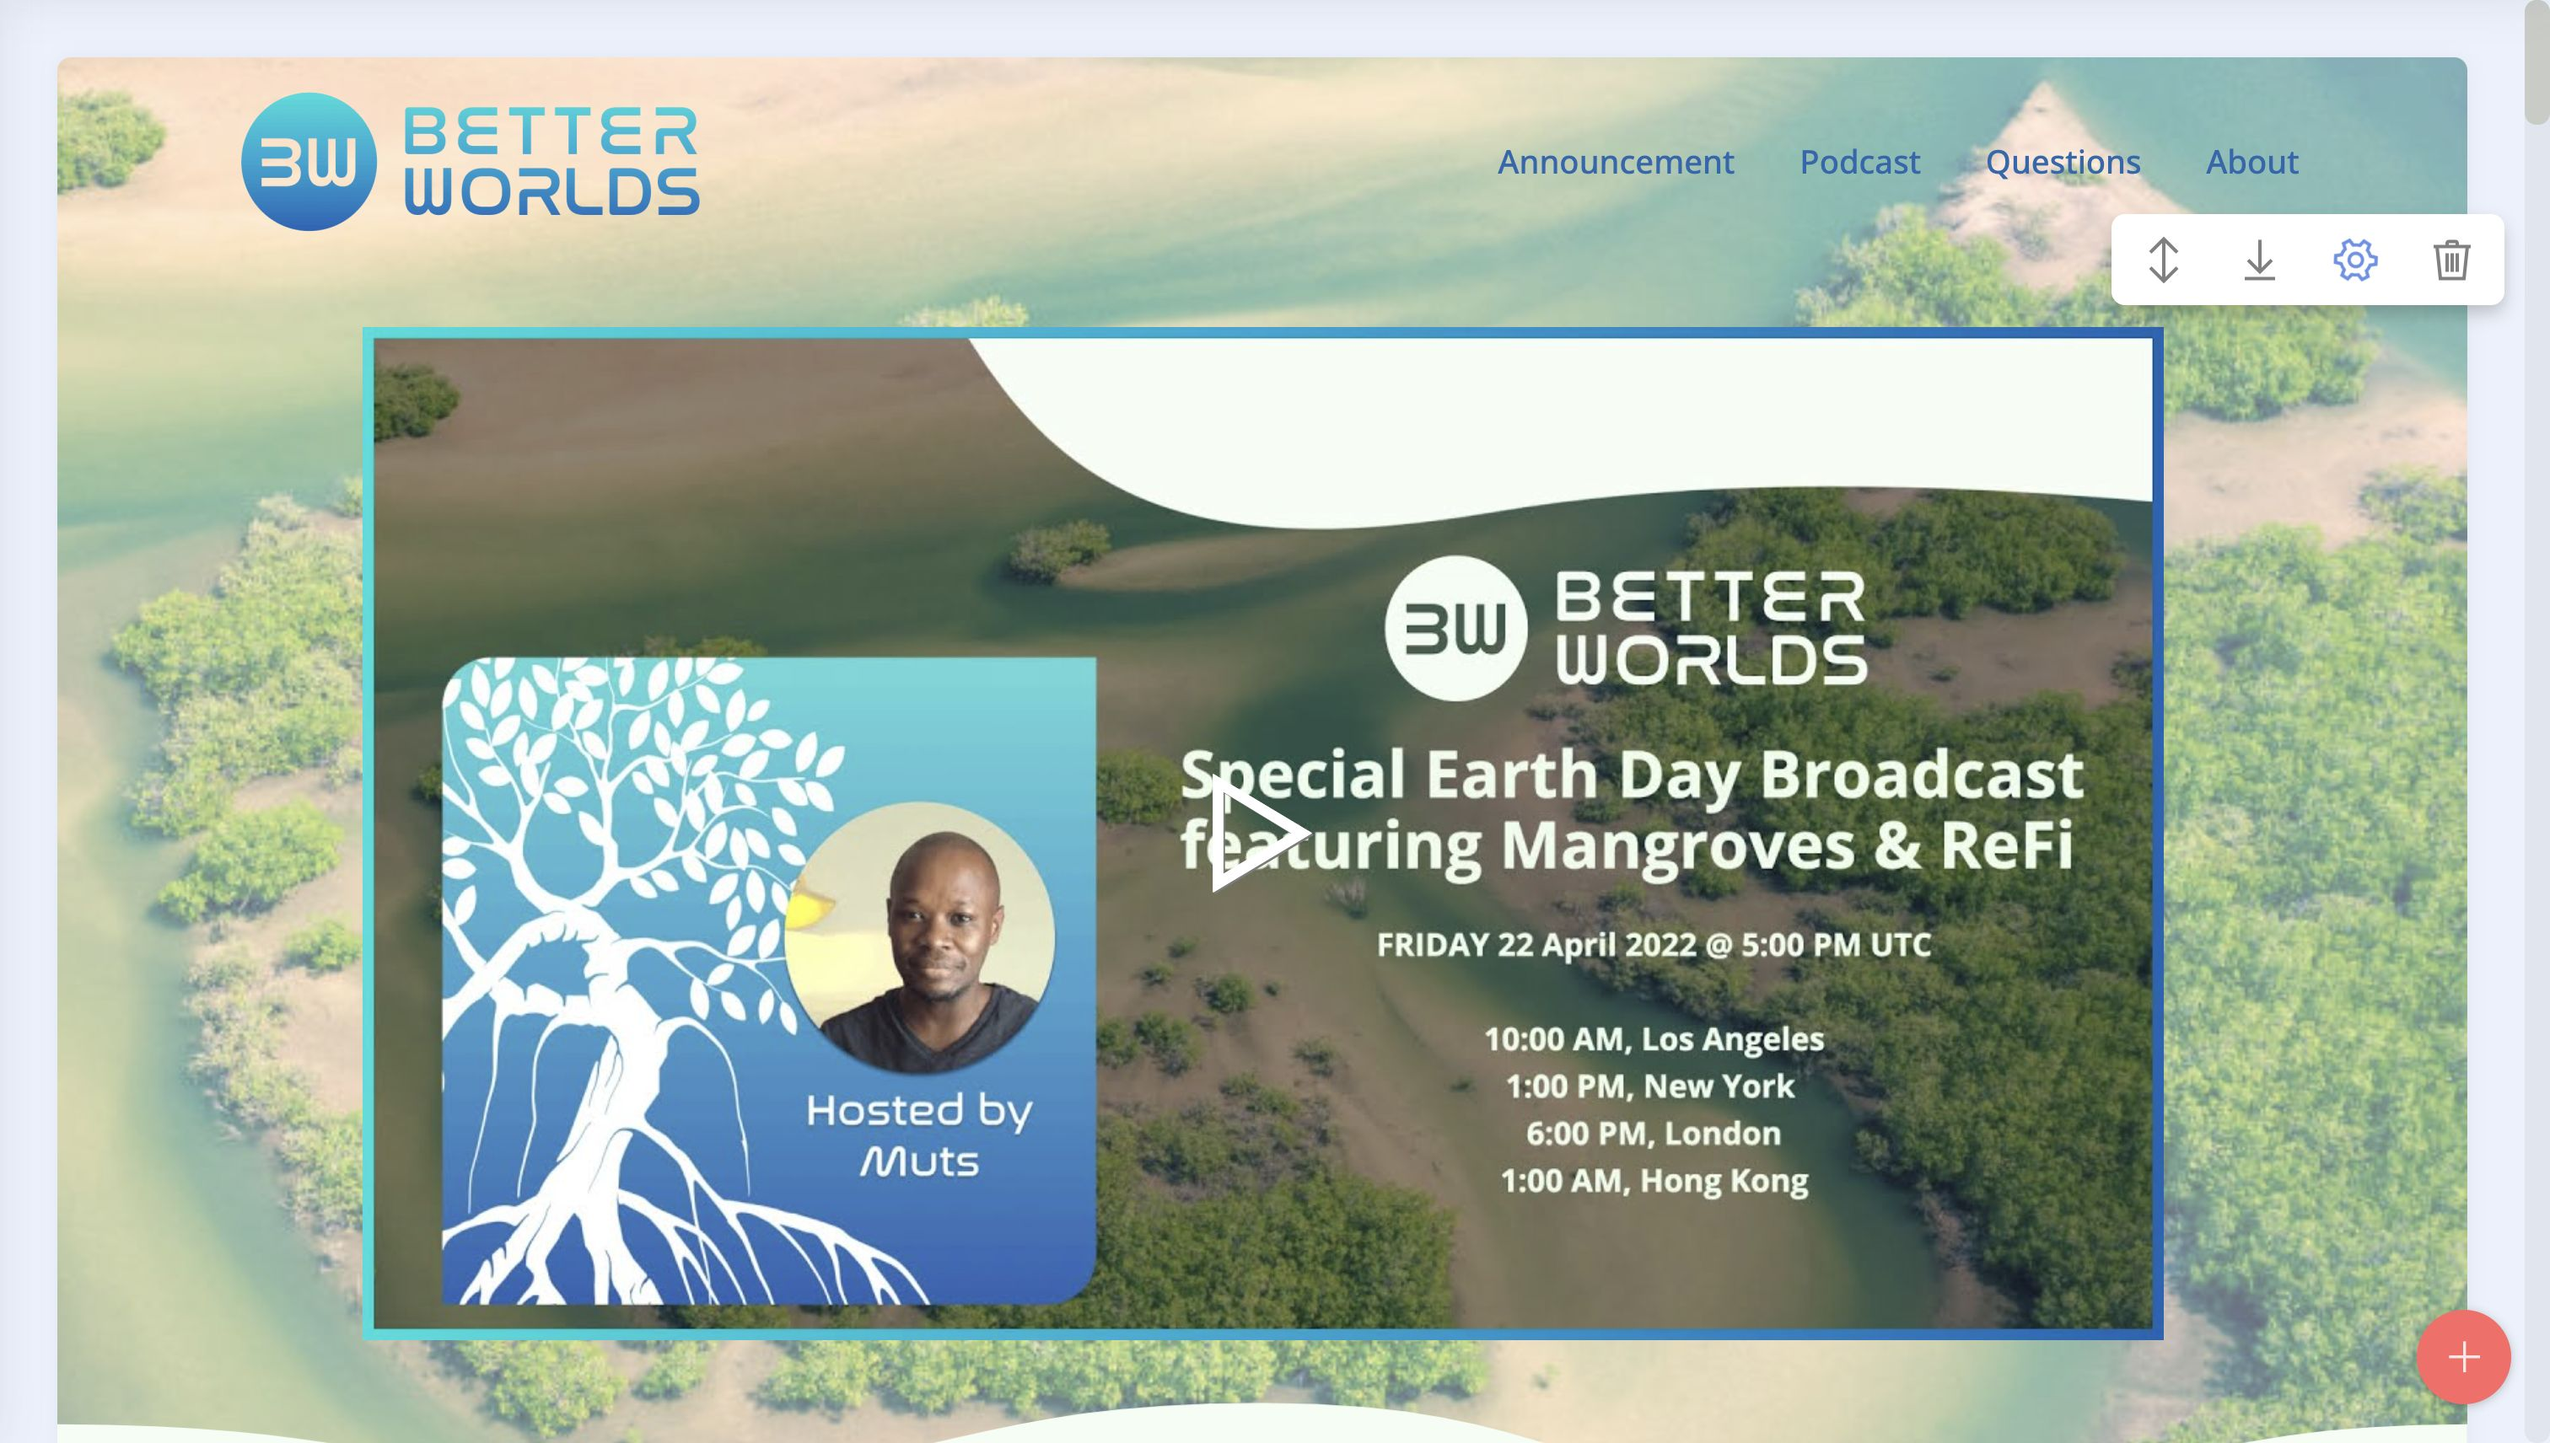
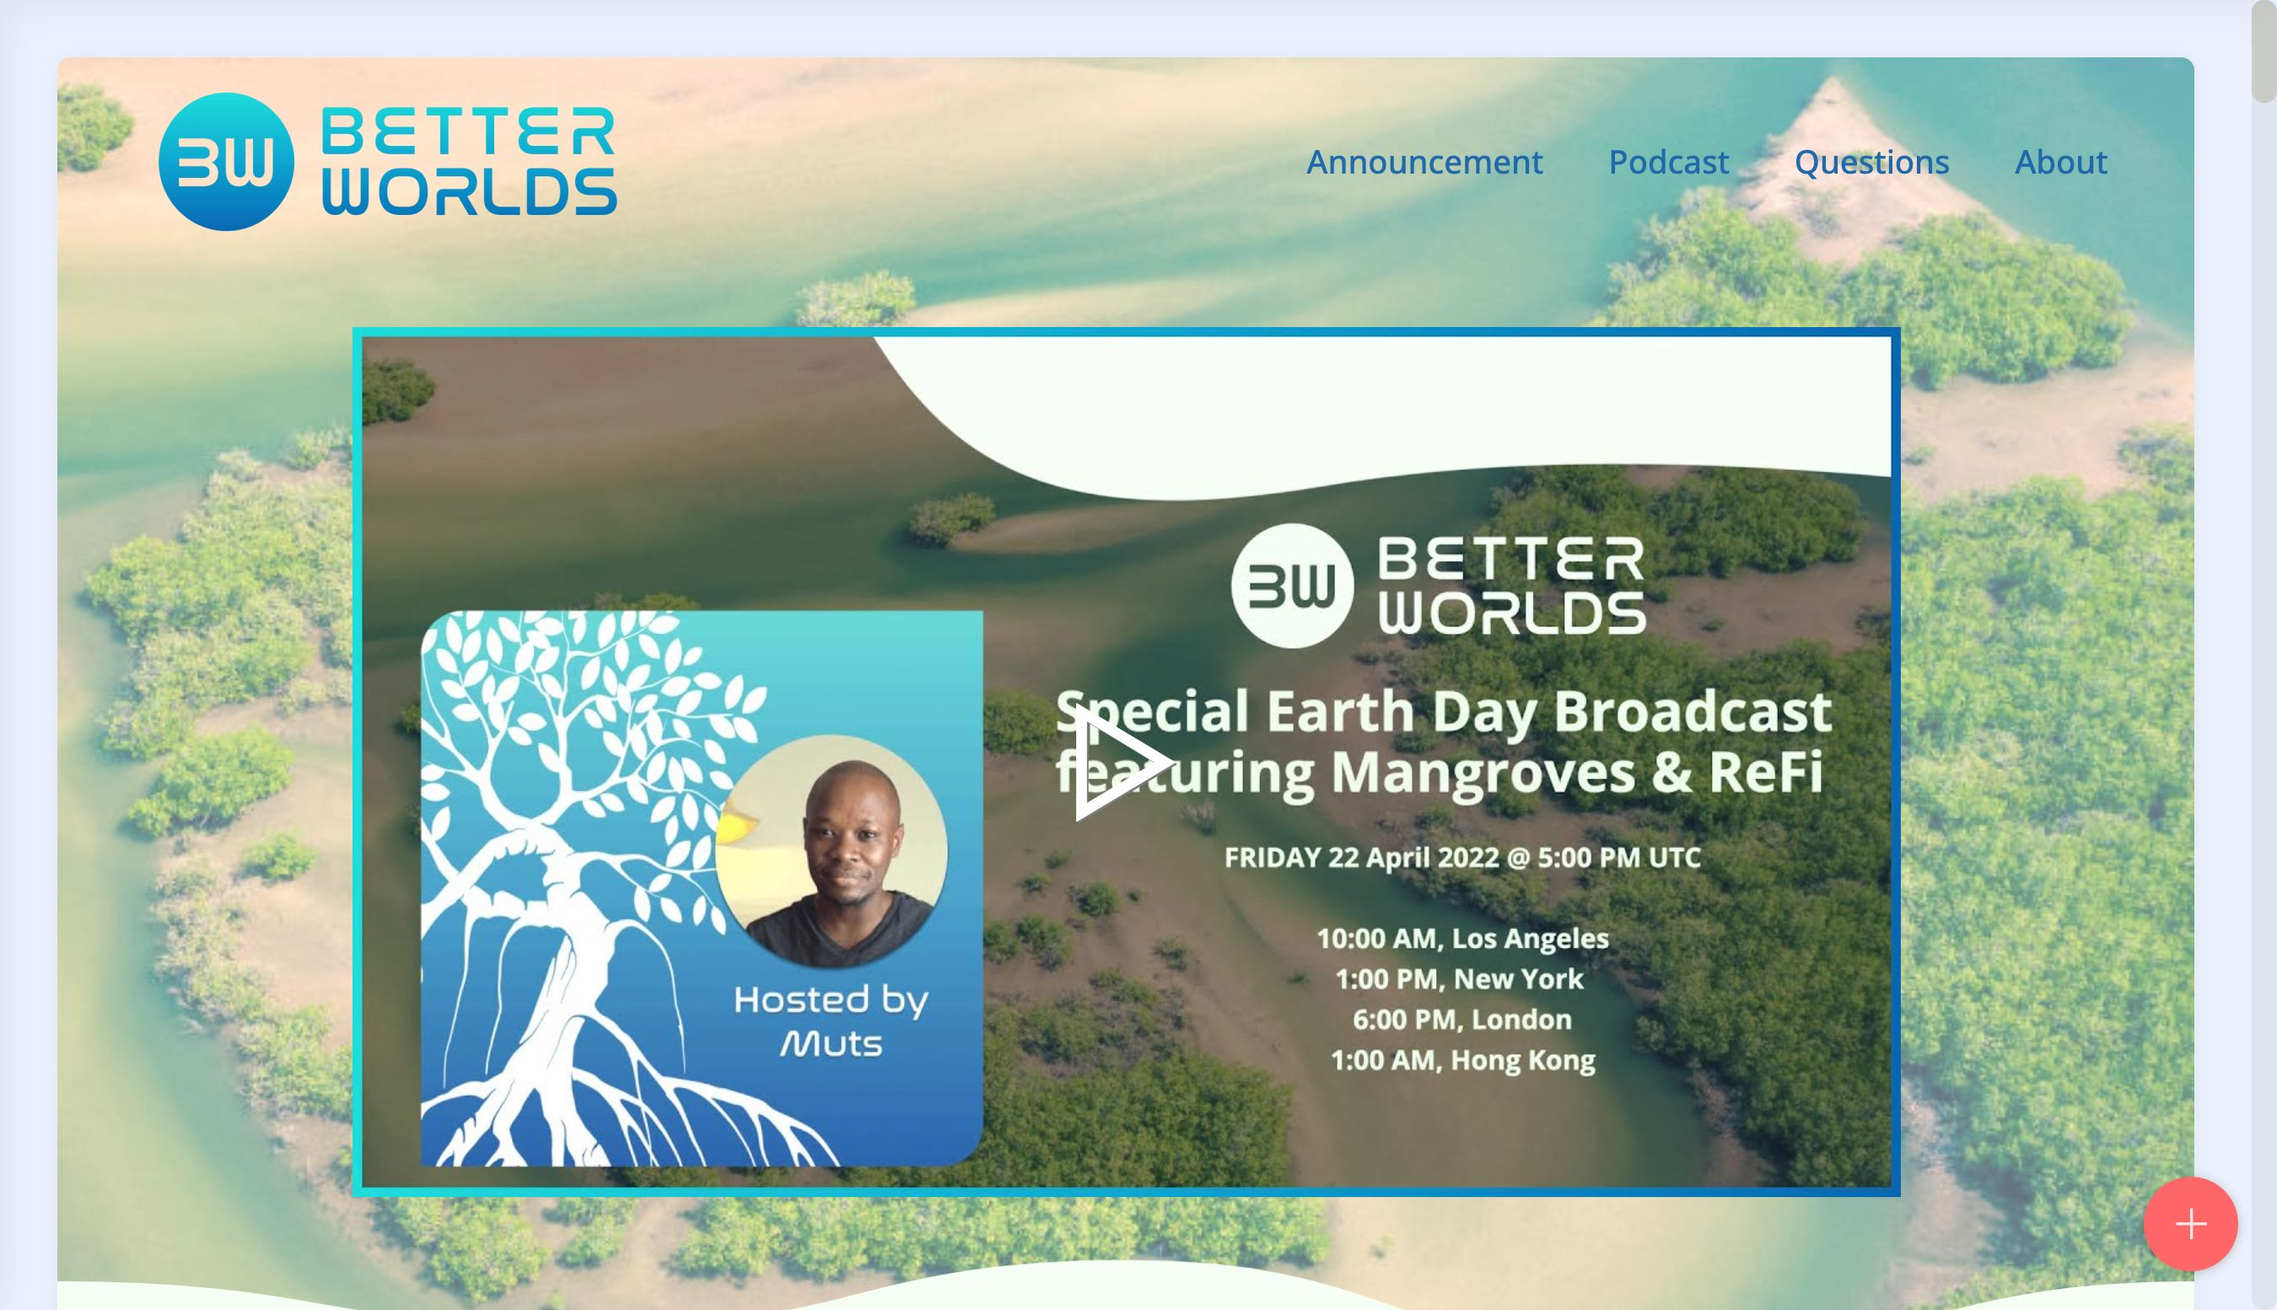
fix watch now

diff --git a/index-bak.html b/index-bak.html
@@ -57,37 +57,7 @@ Better Worlds is a communication and community building platform comprised of we
 </head>
 <body>
   
-  <section data-bs-version="5.1" class="menu menu1 cid-sBTN7PNF8A" once="menu" id="menu1-1">
-    
-
-    <nav class="navbar navbar-dropdown navbar-expand-lg">
-        <div class="container">
-            <div class="navbar-brand">
-                <span class="navbar-logo">
-                    <a href="http://www.betterworlds.com">
-                        <img src="assets/images/logo-bw-horz-660x208.png" alt="" style="height: 6.5rem;">
-                    </a>
-                </span>
-                
-            </div>
-            <button class="navbar-toggler" type="button" data-toggle="collapse" data-bs-toggle="collapse" data-target="#navbarSupportedContent" data-bs-target="#navbarSupportedContent" aria-controls="navbarNavAltMarkup" aria-expanded="false" aria-label="Toggle navigation">
-                <div class="hamburger">
-                    <span></span>
-                    <span></span>
-                    <span></span>
-                    <span></span>
-                </div>
-            </button>
-            <div class="collapse navbar-collapse" id="navbarSupportedContent">
-                <ul class="navbar-nav nav-dropdown nav-right" data-app-modern-menu="true"><li class="nav-item"><a class="nav-link link text-primary display-7" href="index.html#challenge">Announcement</a></li><li class="nav-item"><a class="nav-link link text-primary display-7" href="index.html#podcast" aria-expanded="false">Podcast</a></li><li class="nav-item"><a class="nav-link link text-primary display-7" href="index.html#questions">Questions</a></li><li class="nav-item"><a class="nav-link link text-primary display-7" href="index.html#about">About</a></li></ul>
-                
-                
-            </div>
-        </div>
-    </nav>
-</section>
-
-<section data-bs-version="5.1" class="header1 cid-sBTN7vbAnD" id="header01-0">
+  <section data-bs-version="5.1" class="header1 cid-sBTN7vbAnD" id="header01-0">
     
     <div class="mbr-overlay" style="opacity: 0.3; background-color: rgb(255, 225, 97);"></div>
     <svg xmlns="http://www.w3.org/2000/svg" viewBox="0 0 1600 900" width="1600" height="900" class="lottie__svg" preserveAspectRatio="none">
@@ -277,6 +247,36 @@ s201.9-21.1,402-21.1v24.1L-1,40V15.7z"></path>
             </div>
         </div>
     </div>
+</section>
+
+<section data-bs-version="5.1" class="menu menu1 cid-sBTN7PNF8A" once="menu" id="menu1-1">
+    
+
+    <nav class="navbar navbar-dropdown navbar-expand-lg">
+        <div class="container">
+            <div class="navbar-brand">
+                <span class="navbar-logo">
+                    <a href="http://www.betterworlds.com">
+                        <img src="assets/images/logo-bw-horz-660x208.png" alt="" style="height: 6.5rem;">
+                    </a>
+                </span>
+                
+            </div>
+            <button class="navbar-toggler" type="button" data-toggle="collapse" data-bs-toggle="collapse" data-target="#navbarSupportedContent" data-bs-target="#navbarSupportedContent" aria-controls="navbarNavAltMarkup" aria-expanded="false" aria-label="Toggle navigation">
+                <div class="hamburger">
+                    <span></span>
+                    <span></span>
+                    <span></span>
+                    <span></span>
+                </div>
+            </button>
+            <div class="collapse navbar-collapse" id="navbarSupportedContent">
+                <ul class="navbar-nav nav-dropdown nav-right" data-app-modern-menu="true"><li class="nav-item"><a class="nav-link link text-primary display-7" href="index.html#challenge">Announcement</a></li><li class="nav-item"><a class="nav-link link text-primary display-7" href="index.html#podcast" aria-expanded="false">Podcast</a></li><li class="nav-item"><a class="nav-link link text-primary display-7" href="index.html#questions">Questions</a></li><li class="nav-item"><a class="nav-link link text-primary display-7" href="index.html#about">About</a></li></ul>
+                
+                
+            </div>
+        </div>
+    </nav>
 </section>
 
 <section data-bs-version="5.1" class="content3 cid-t3CqcwSeuV" id="content03-a">

diff --git a/index.html b/index.html
@@ -184,10 +184,10 @@ s201.9-21.1,402-21.1v24.1L-1,40V15.7z"></path>
                 <div class="text-wrapper align-left">
                     <h1 class="mbr-section-title mbr-fonts-style mb-4 display-2"><strong>Special Earth Day Broadcast featuring Mangroves &amp; ReFi</strong></h1>
                     <p class="mbr-text mbr-fonts-style display-5"><em>WORLD PREMIERE</em></p>
-                    <div class="mbr-section-btn mt-3"><a class="btn btn-lg btn-white-outline display-5" href="index.html#top" data-luma-event-id="evt-AD7BakkeINqwNZx" data-luma-action="checkout">
+                    <div class="mbr-section-btn mt-3"><a class="btn btn-lg btn-white-outline display-5" href="index.html#top">
                             
                             Watch Now</a>
-                        <script id="luma-checkout" src="https://embed.lu.ma/checkout-button.js"></script></div> 
+                       </div> 
                 </div>
             </div>
         </div>
